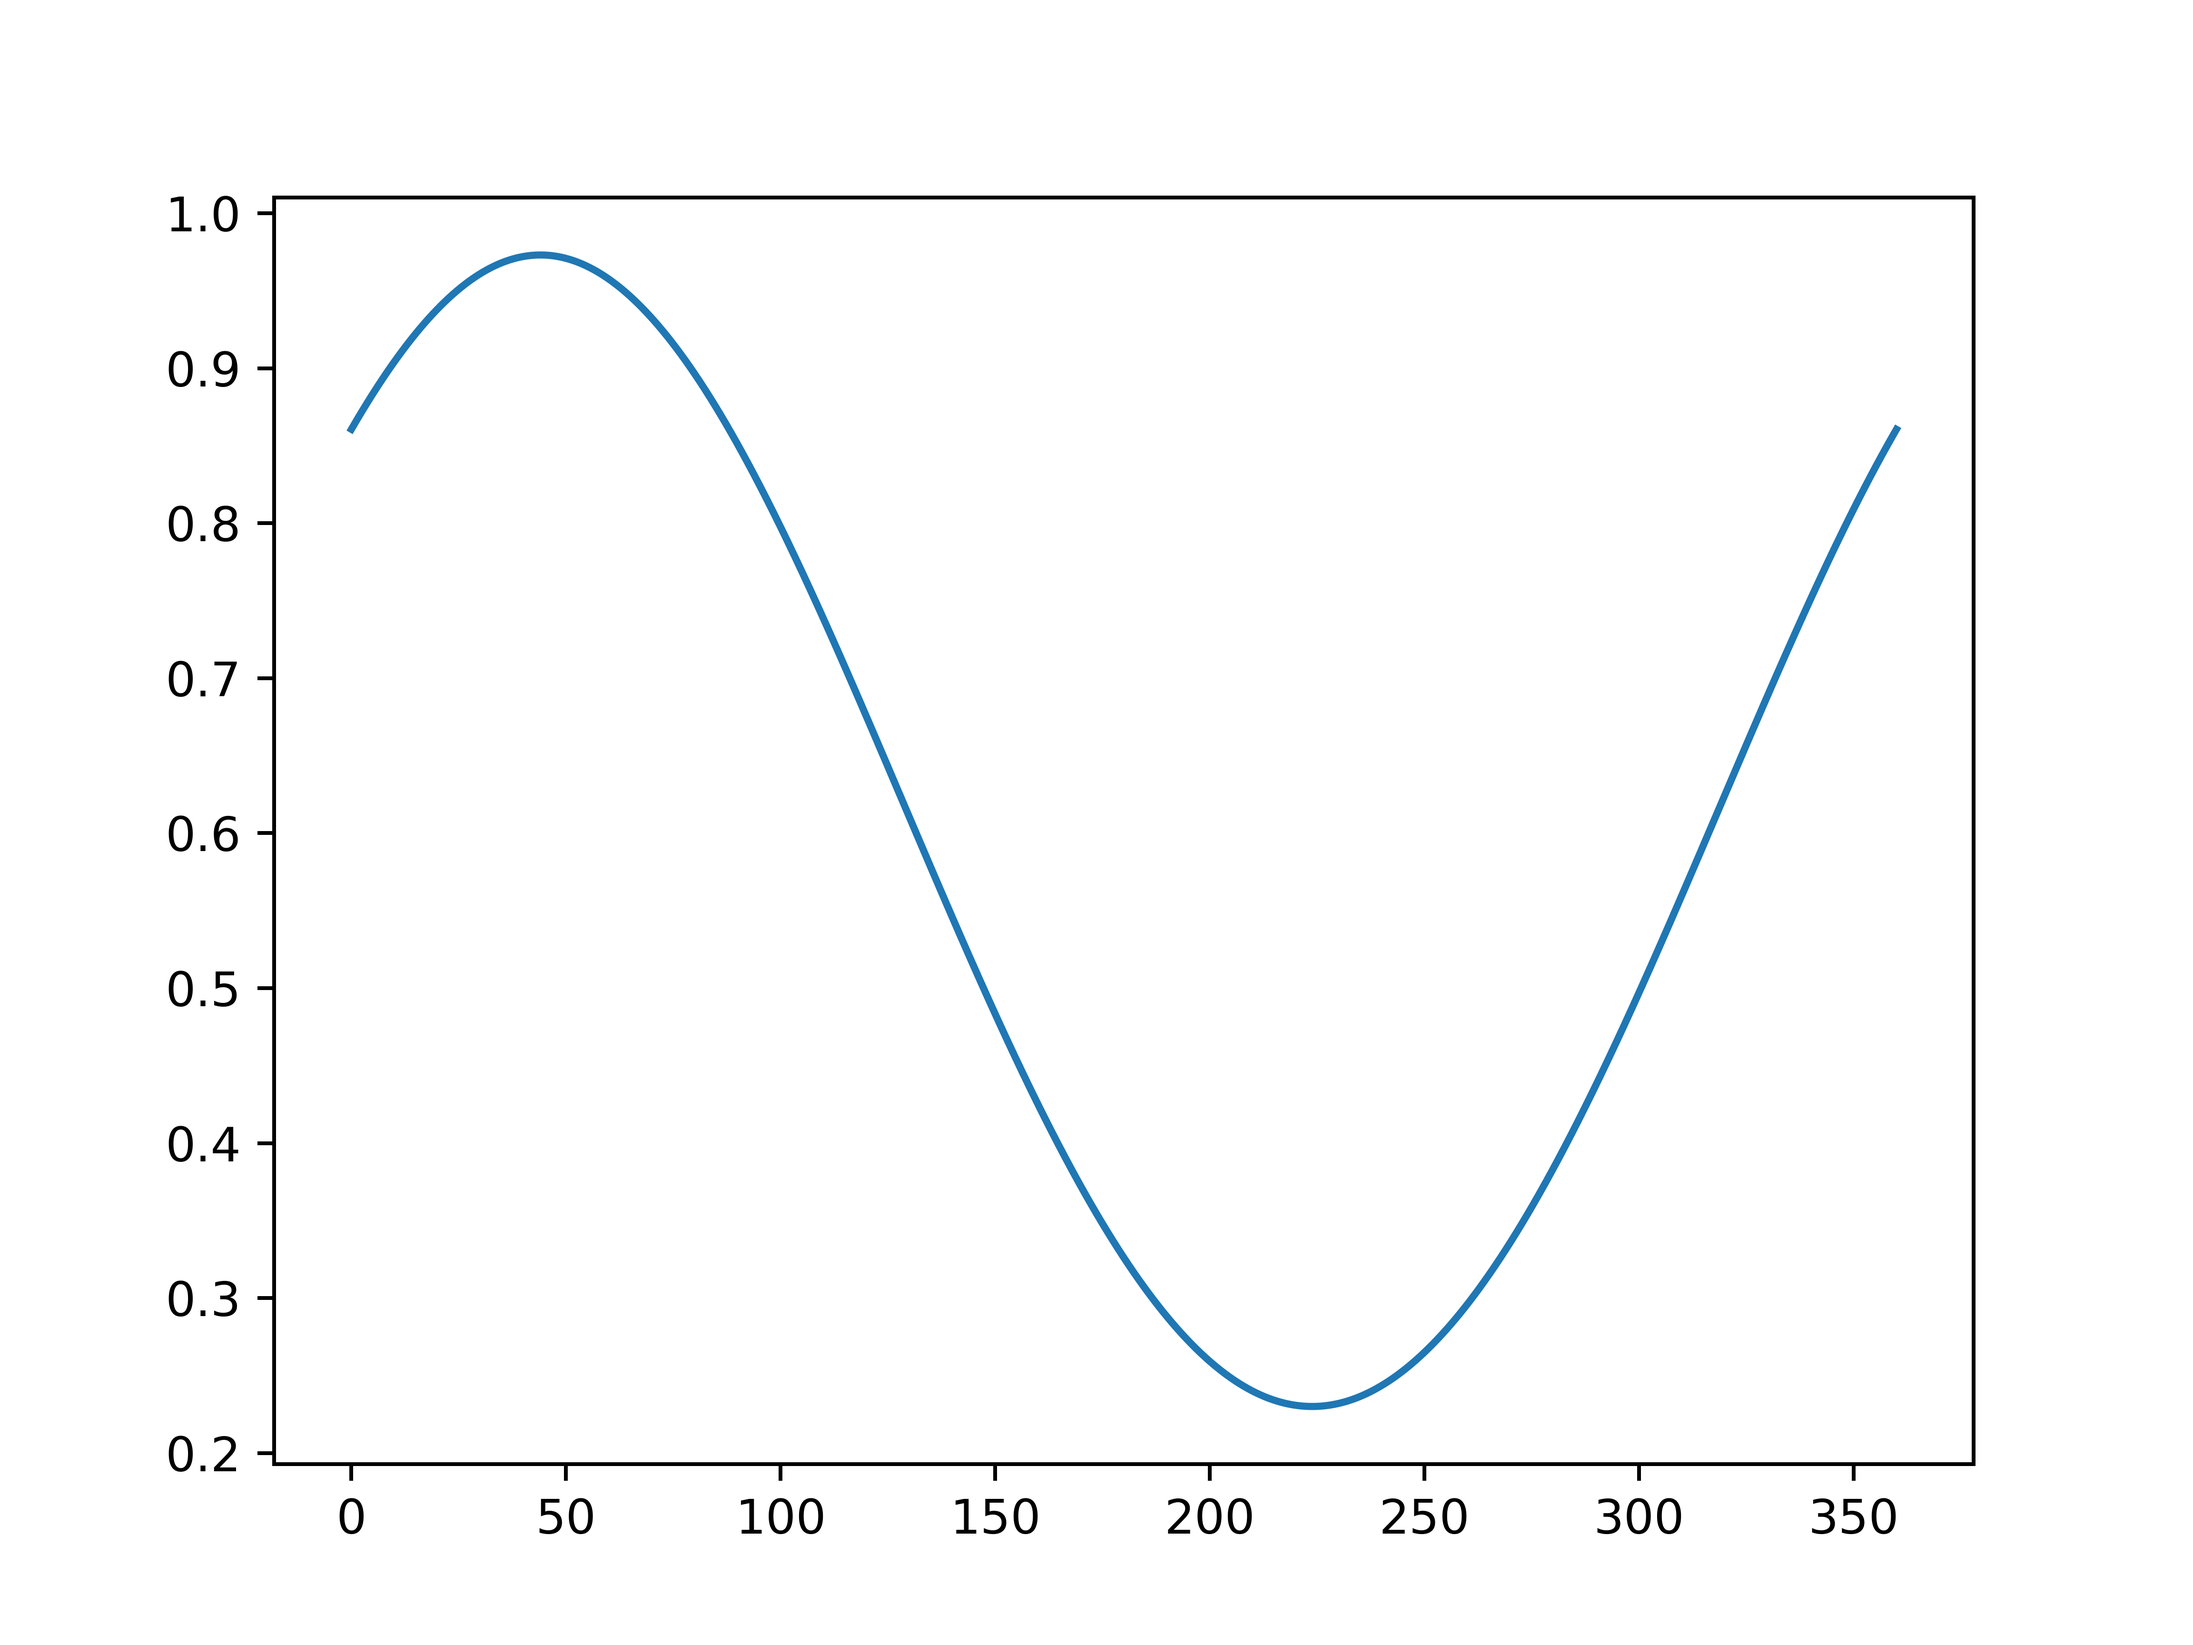
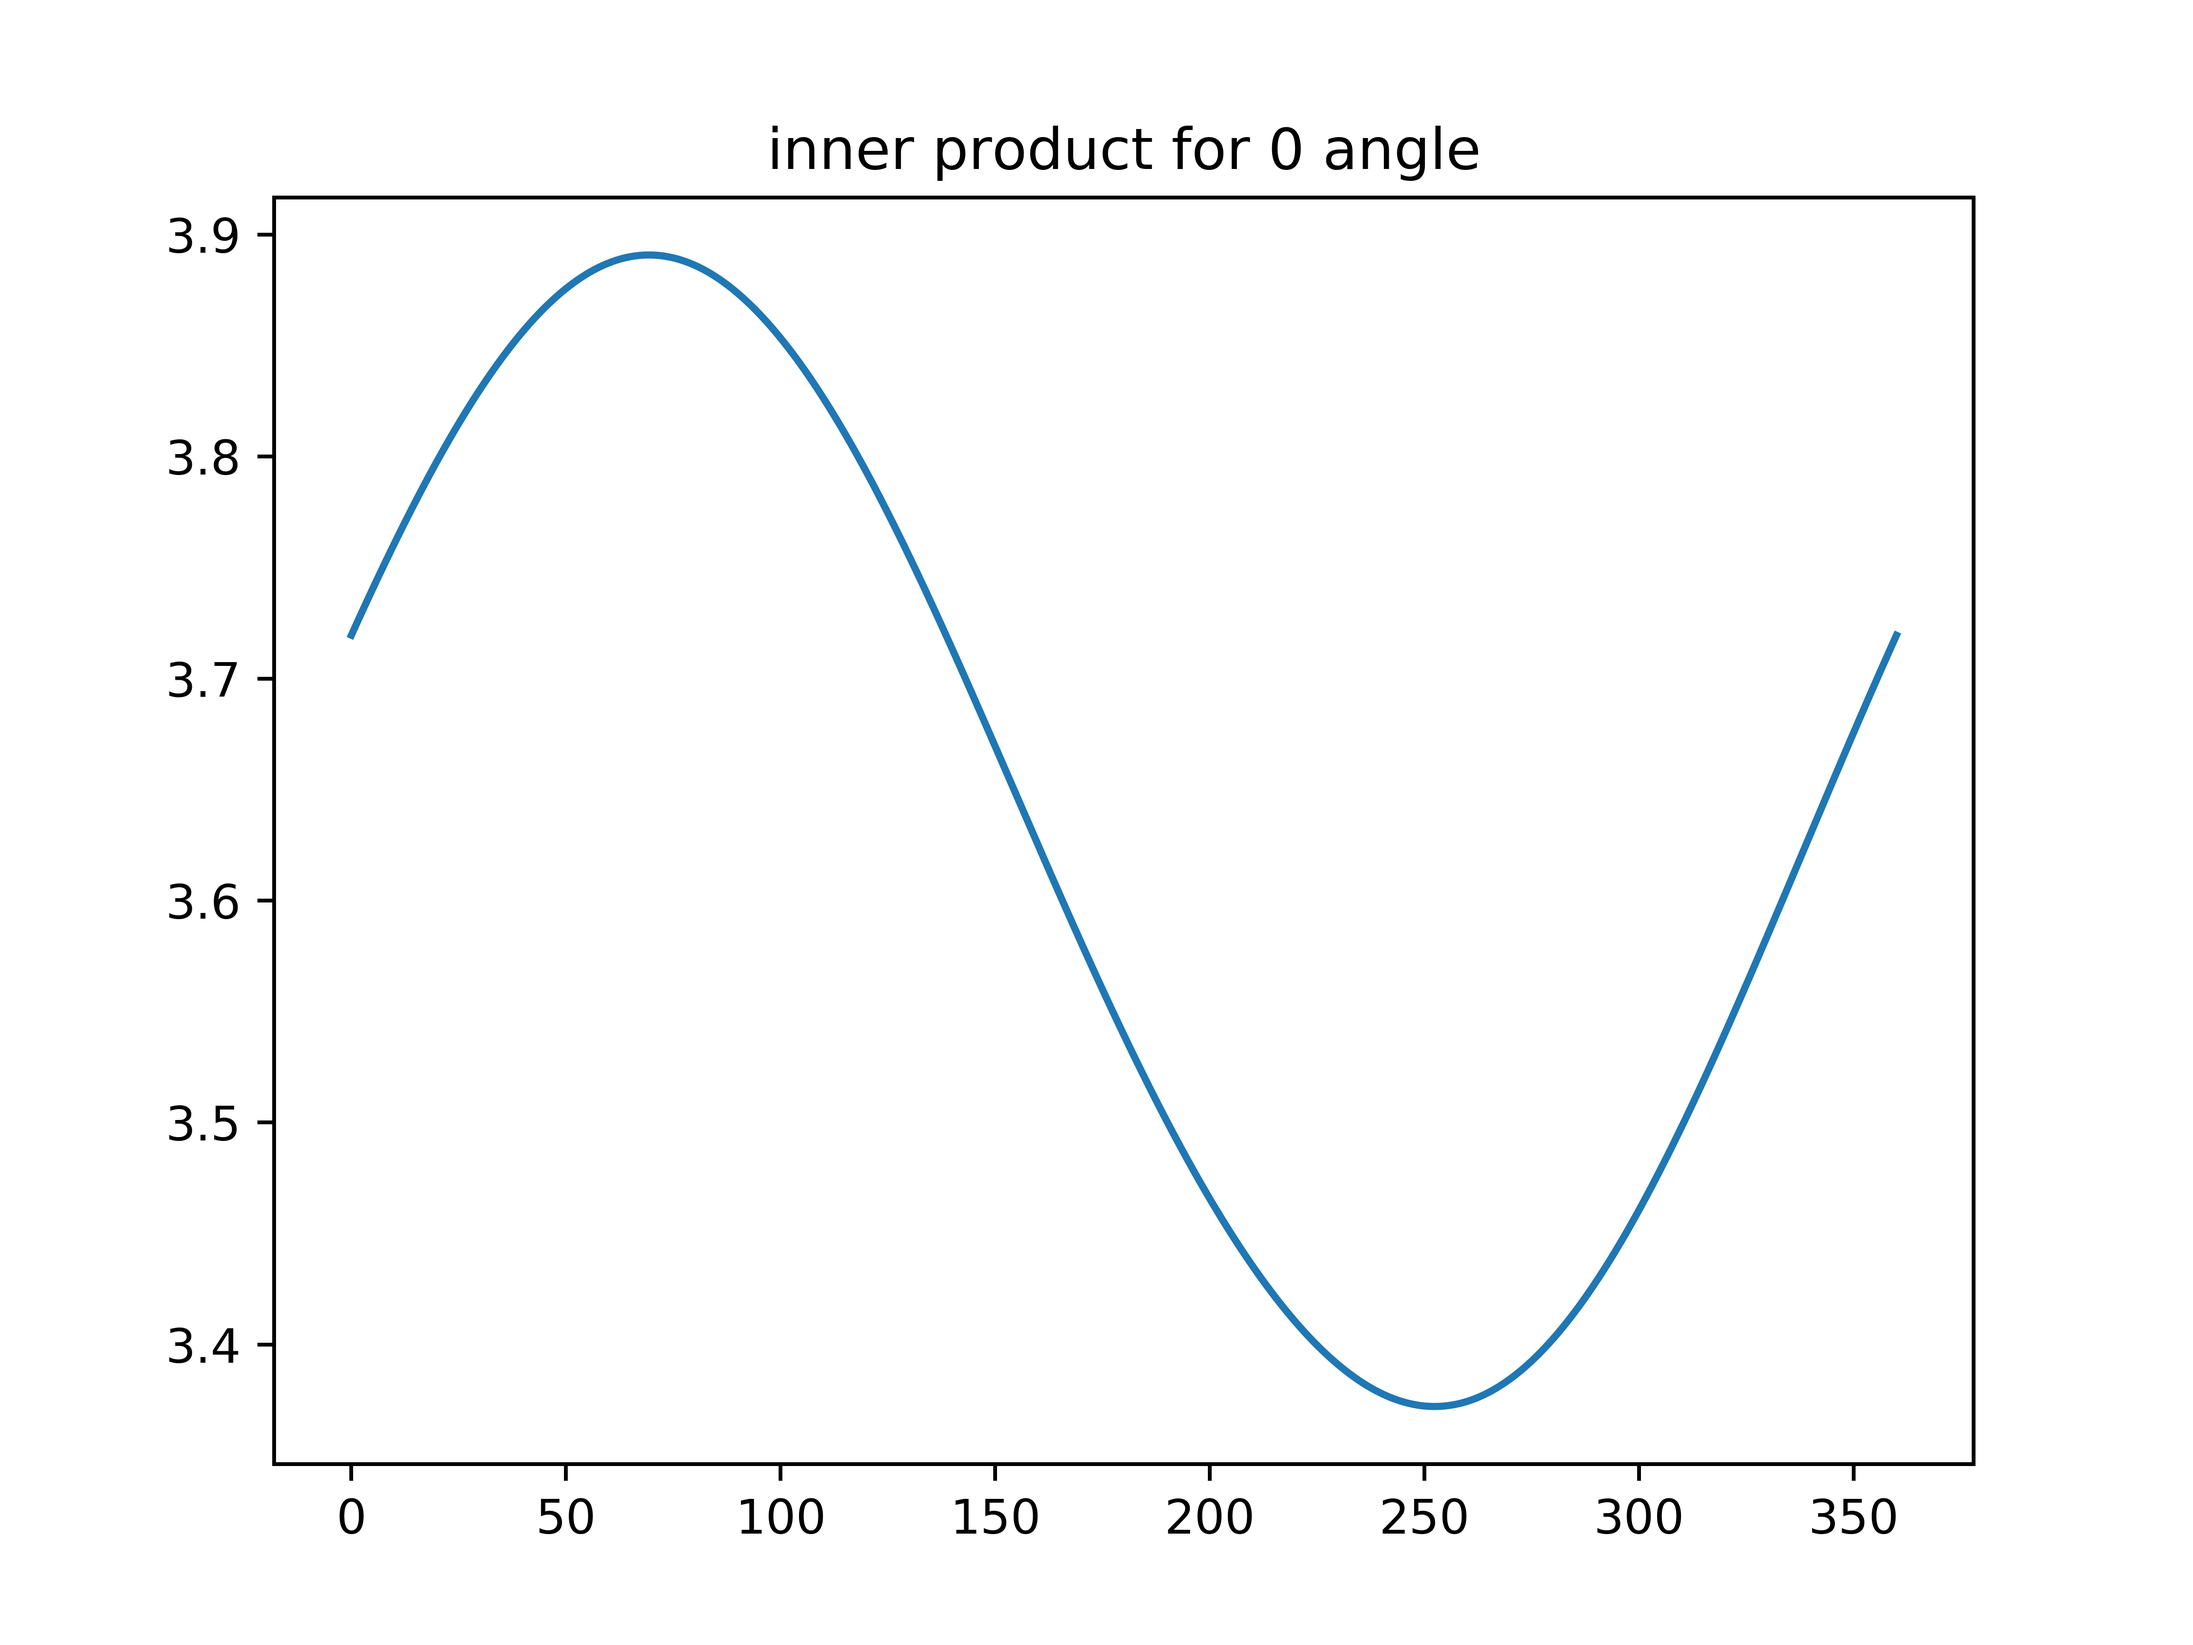
graphs for Or

diff --git a/computing.py b/computing.py
@@ -379,7 +379,7 @@ def draw_graph():
 	len_of_vector_of_snapshots = int(len(all_fft[0]))
 	x = np.linspace(0.0, 360, NUM_OF_DIRECTIONS)
 	s_phi = nprect(1, angle_from_math)
-	title = "inner product for 45 angle"
+	title = "inner product for 0 angle"
 	location_to_save = "./graphs/"
 	for vector_of_snapshots in all_fft:
 		# print(vector_of_snapshots)
@@ -389,9 +389,12 @@ def draw_graph():
 			angle_tag_normalized = (angle_tag - angle_tag_norm) % MOD_2_PI
 			mean_angle += angle_tag_normalized
 			complex_from_mic = nprect(1, angle_tag_normalized)
-			results = np.dot(s_phi, complex_from_mic)
-			plt.plot(x, np.angle(results), label="phase normalized")
+			results = []
+			for phi in s_phi:
+				results.append(np.vdot(phi, complex_from_mic))
+			plt.plot(x, np.abs(results), label="phase normalized")
 			# print(len(s_phi), len(s_phi[0]), len(complex_from_mic), len(results), results[0])
+	plt.title(title)
 	plt.savefig(location_to_save+"all " + title + ".png", format=FORMAT_TO_SAVE, dpi = 720)
 	plt.close()
 
@@ -399,9 +402,12 @@ def draw_graph():
 
 	mean_complex = nprect(1, mean_angle)
 	# print(np.abs(s_phi))
-	results = np.dot(s_phi, mean_complex)
+	results = []
+	for phi in s_phi:
+		results.append(np.vdot(phi, mean_complex))
 	# print(np.abs(results))
-	plt.plot(x, np.angle(results))
+	plt.plot(x, np.abs(results))
+	plt.title(title)
 	plt.savefig(location_to_save+title + ".png", format=FORMAT_TO_SAVE, dpi=720)
 	plt.close()
 	# plt.show()

diff --git a/main.py b/main.py
@@ -19,7 +19,7 @@ newNoise = 0
 
 def getFileslist():
 	# return [f for f in listdir('./wav_files') if isfile(join('./', f)) and f.endswith(".wav")]
-	return ['./wav_files/48k_600_45_output.wav']
+	return ['./wav_files/48k_600_0_output.wav']
 
 
 
